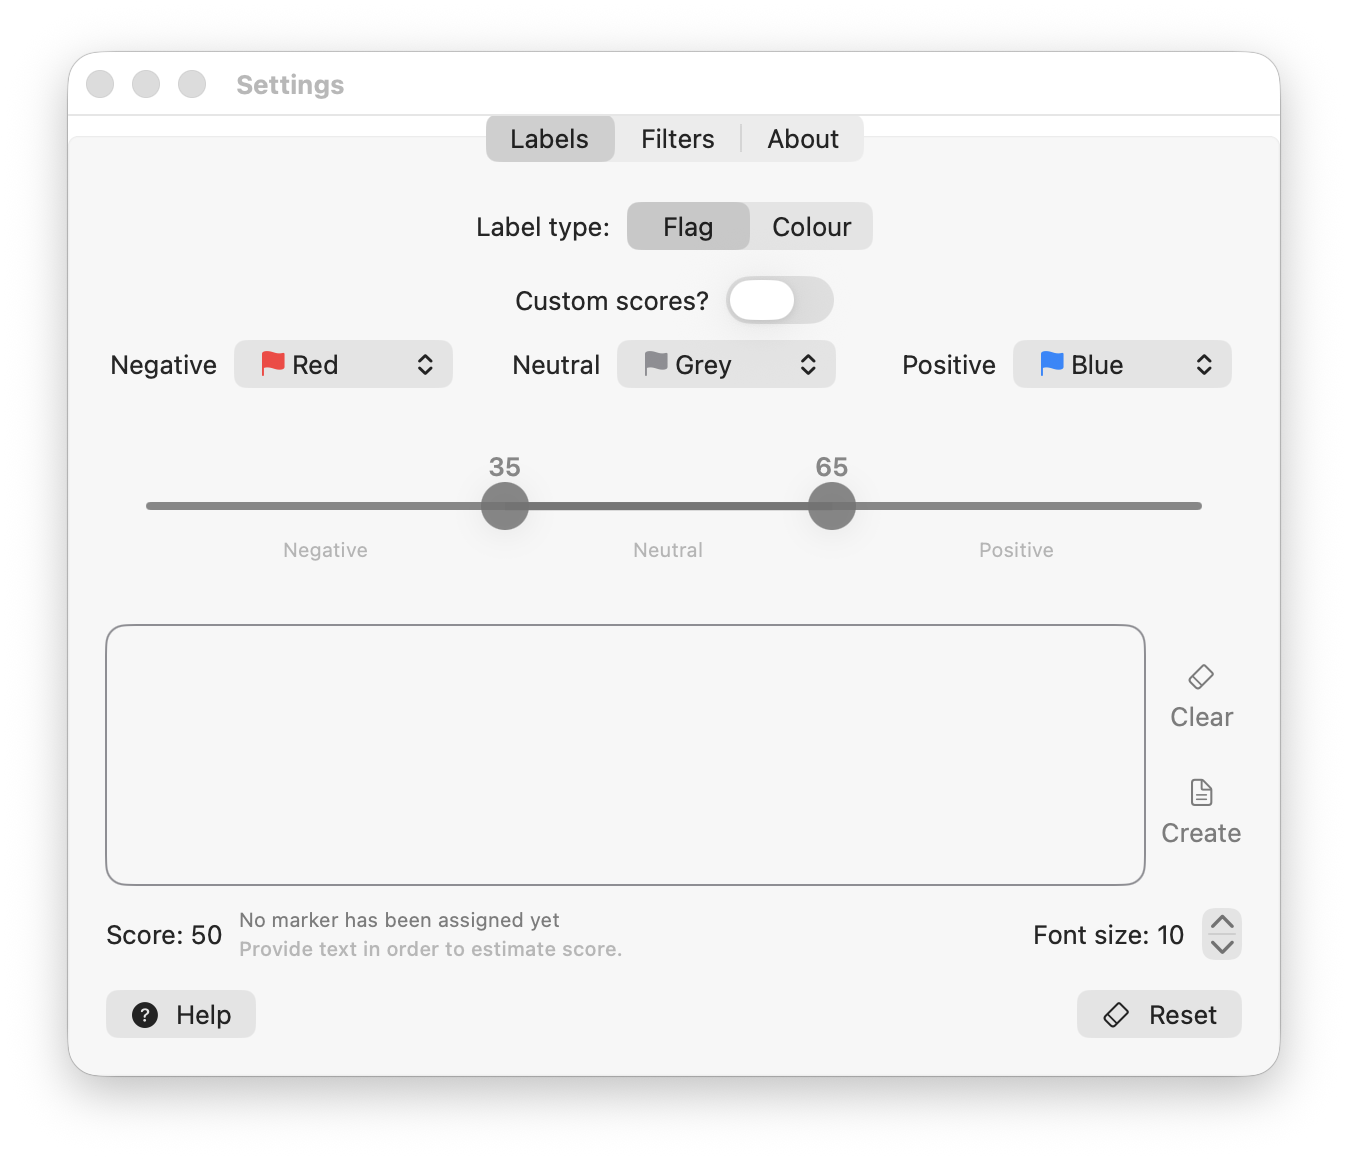
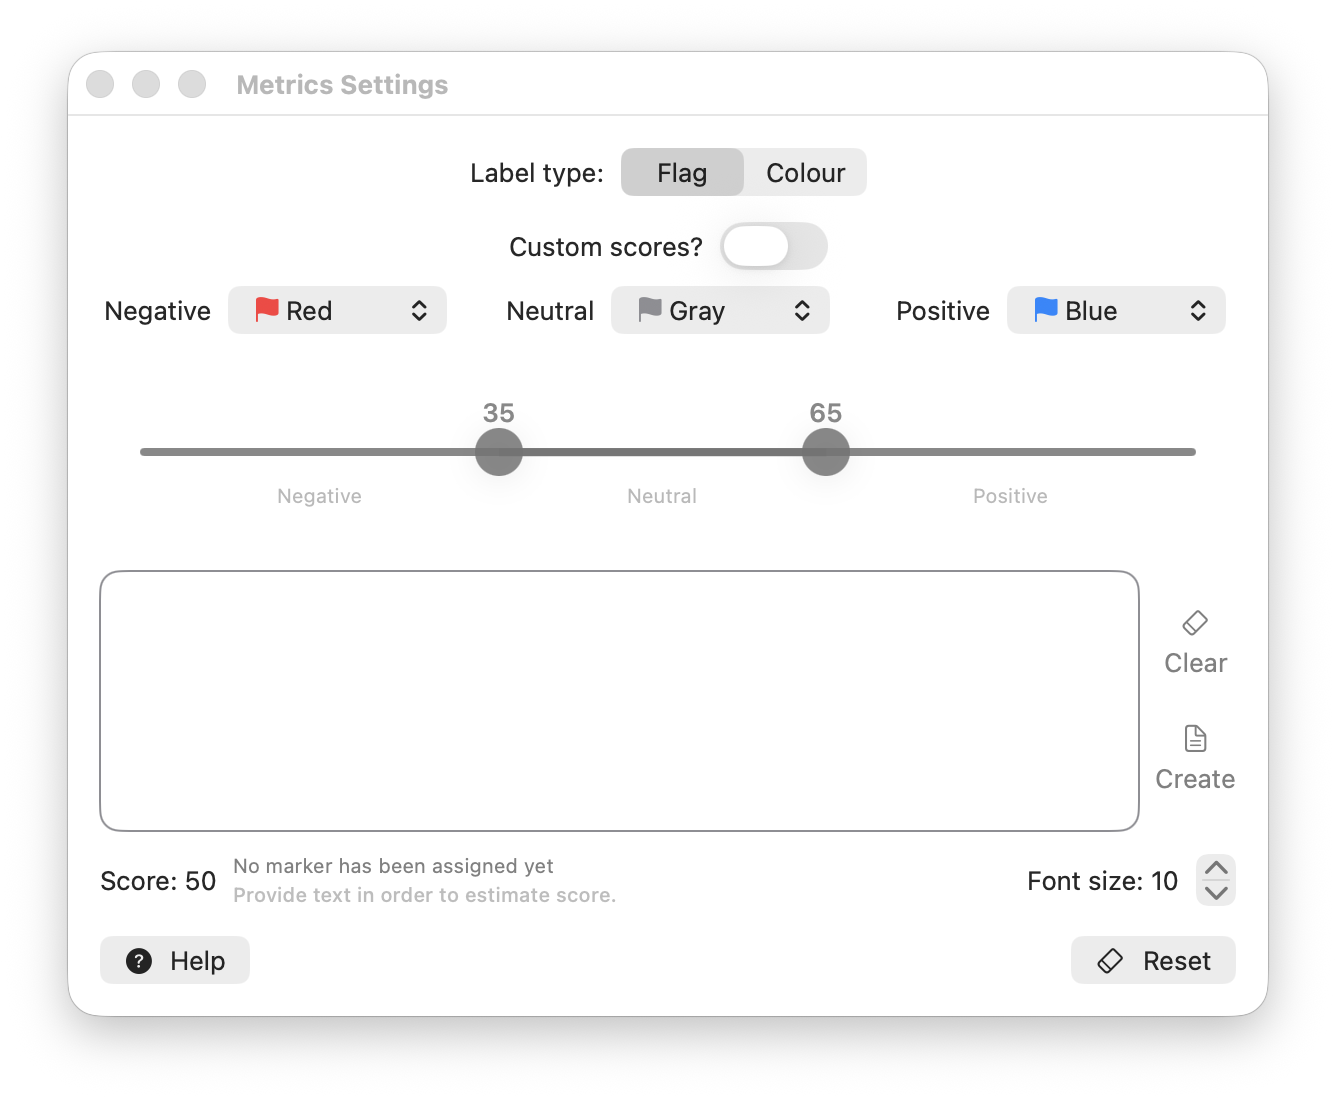
Updating Website Screenshots

diff --git a/index.html b/index.html
@@ -171,13 +171,13 @@
               src="images/labels-settings-dark-2026.png"
               data-light-src="images/labels-settings-light-2026.png"
               data-dark-src="images/labels-settings-dark-2026.png"
-              alt="SentimentalMail labels settings window with marker styles, score thresholds, and reset controls"
+              alt="SentimentalMail metrics settings window with marker styles, score thresholds, and reset controls"
               loading="lazy"
               decoding="async"
-              width="1348"
-              height="1160"
+              width="1336"
+              height="1100"
             />
-            <figcaption>Fine-tune label styles, score thresholds, and scoring controls directly inside the app.</figcaption>
+            <figcaption>Fine-tune marker styles, score thresholds, and scoring controls directly inside the app.</figcaption>
           </figure>
 
           <figure class="showcase-shot">
@@ -185,13 +185,13 @@
               src="images/stats-chart-dark-2026.png"
               data-light-src="images/stats-chart-light-2026.png"
               data-dark-src="images/stats-chart-dark-2026.png"
-              alt="SentimentalMail stats window showing weekly positive, neutral, and negative message counts"
+              alt="SentimentalMail stats window showing monthly positive, neutral, and negative message counts"
               loading="lazy"
               decoding="async"
               width="1936"
               height="1440"
             />
-            <figcaption>Review weekly message trends with a date-range picker and clear positive, neutral, and negative counts.</figcaption>
+            <figcaption>Review monthly message trends with a date-range picker and clear positive, neutral, and negative counts.</figcaption>
           </figure>
         </div>
       </div>
@@ -214,22 +214,22 @@
             <figure class="setup-shot">
               <img
                 src="images/setup-extension-enabled-light-2026.png"
-                alt="Mail settings showing the extension enabled in the Extensions tab"
+                alt="Apple Mail Extensions settings showing SentimentalMail selected and its permissions"
                 loading="lazy"
                 decoding="async"
-                width="1768"
-                height="1410"
+                width="895"
+                height="720"
               />
-              <figcaption>Enable the extension from Mail → Settings → Extensions.</figcaption>
+              <figcaption>Open Mail Settings, select Extensions, and tick SentimentalMail.</figcaption>
             </figure>
             <figure class="setup-shot">
               <img
                 src="images/setup-turn-on-light-2026.png"
-                alt="Mail confirmation dialog asking to turn on the extension"
+                alt="Apple Mail confirmation dialog asking to turn on the SentimentalMail extension"
                 loading="lazy"
                 decoding="async"
-                width="1768"
-                height="1410"
+                width="895"
+                height="720"
               />
               <figcaption>Confirm Turn On so Mail can use the extension immediately.</figcaption>
             </figure>
